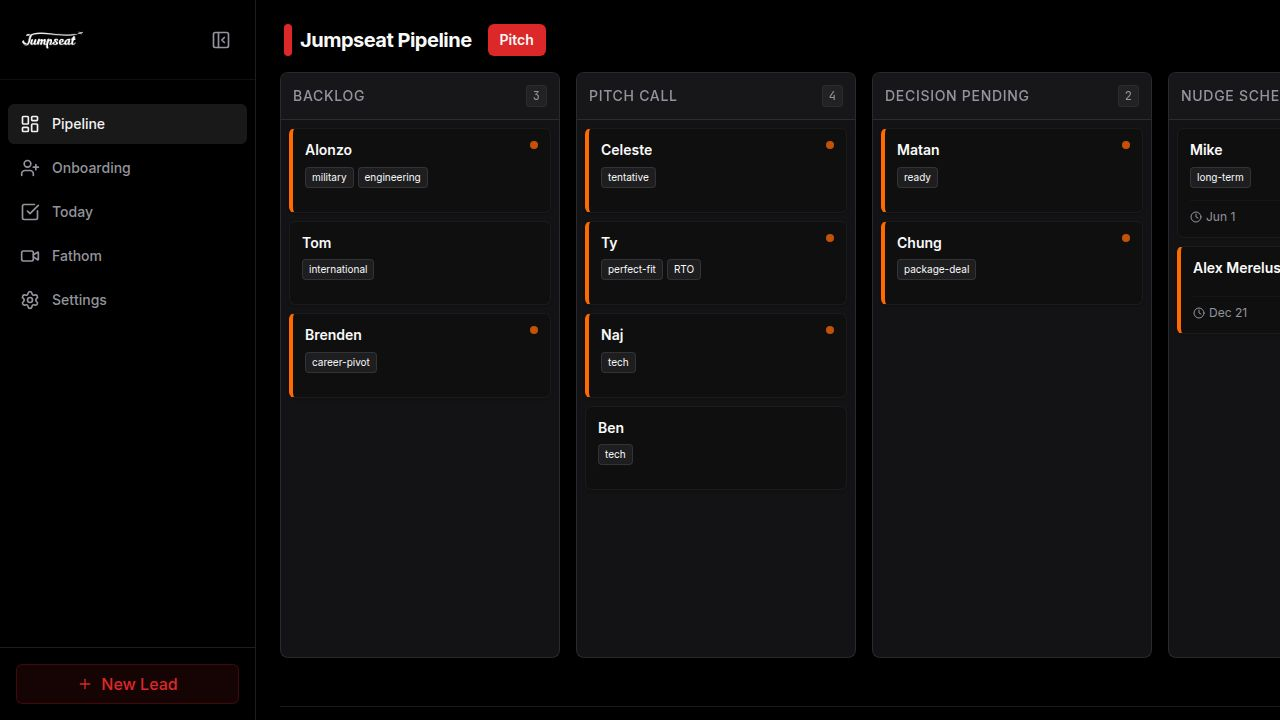
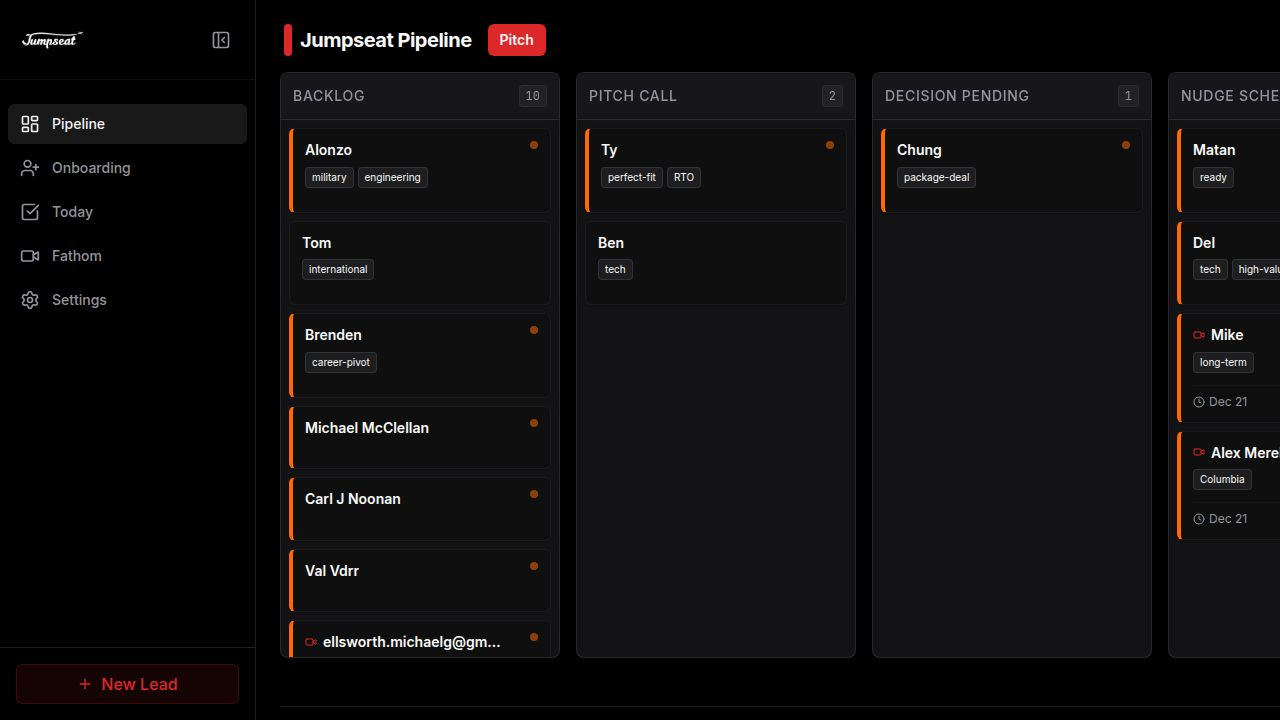
Add ability to edit lead names and improve follow-up date saving
Implement editable lead name functionality in the UI and add optimistic updates to the `updateLead` mutation to ensure immediate persistence of changes in the lead details view.

Replit-Commit-Author: Agent
Replit-Commit-Session-Id: 7dbfe593-8719-46f8-921e-f2176dc3040a
Replit-Commit-Checkpoint-Type: full_checkpoint
Replit-Commit-Event-Id: 415c6837-a538-4c58-ba3a-317cc3413951
Replit-Commit-Screenshot-Url: https://storage.googleapis.com/screenshot-production-us-central1/5ed89963-c615-4f70-851d-41f2a588be62/7dbfe593-8719-46f8-921e-f2176dc3040a/AU6iI3i
Replit-Helium-Checkpoint-Created: true

diff --git a/client/src/components/lead-details.tsx b/client/src/components/lead-details.tsx
@@ -33,12 +33,15 @@ export function LeadDetails({ leadId, onClose }: LeadDetailsProps) {
   const [newTag, setNewTag] = useState("");
   const [isAddingTag, setIsAddingTag] = useState(false);
   const [followUpDate, setFollowUpDate] = useState("");
+  const [editableName, setEditableName] = useState("");
+  const [isEditingName, setIsEditingName] = useState(false);
 
   useEffect(() => {
     if (lead) {
       setNotes(lead.summary || "");
       setLinkedInUrl(lead.linkedIn || "");
       setFollowUpDate(lead.nextFollowUp ? new Date(lead.nextFollowUp).toISOString().split('T')[0] : "");
+      setEditableName(lead.name || "");
     }
   }, [lead]);
 
@@ -57,6 +60,13 @@ export function LeadDetails({ leadId, onClose }: LeadDetailsProps) {
   };
 
   if (!lead) return null;
+
+  const handleSaveName = () => {
+    if (editableName.trim() && editableName !== lead.name) {
+      updateLead(lead.id, { name: editableName.trim() });
+    }
+    setIsEditingName(false);
+  };
 
   const handleSaveNotes = () => {
     updateLead(lead.id, { summary: notes });
@@ -82,8 +92,27 @@ export function LeadDetails({ leadId, onClose }: LeadDetailsProps) {
       <SheetContent className="w-full sm:max-w-xl overflow-y-auto bg-card border-l border-border p-0 gap-0">
         <div className="p-6 pb-4 border-b border-border bg-muted/20">
             <div className="flex items-start justify-between mb-4">
-                <div>
-                    <h2 className="text-2xl font-bold tracking-tight text-foreground">{lead.name}</h2>
+                <div className="flex-1 min-w-0">
+                    {isEditingName ? (
+                      <input
+                        type="text"
+                        value={editableName}
+                        onChange={(e) => setEditableName(e.target.value)}
+                        onBlur={handleSaveName}
+                        onKeyDown={(e) => e.key === 'Enter' && handleSaveName()}
+                        className="text-2xl font-bold tracking-tight text-foreground bg-transparent border-b-2 border-primary focus:outline-none w-full"
+                        autoFocus
+                        data-testid="input-lead-name"
+                      />
+                    ) : (
+                      <h2 
+                        className="text-2xl font-bold tracking-tight text-foreground cursor-pointer hover:text-primary transition-colors"
+                        onClick={() => setIsEditingName(true)}
+                        title="Click to edit name"
+                      >
+                        {lead.name}
+                      </h2>
+                    )}
                     {lead.email && (
                       <a href={`mailto:${lead.email}`} className="text-muted-foreground hover:text-primary text-sm">
                         {lead.email}

diff --git a/client/src/lib/data.tsx b/client/src/lib/data.tsx
@@ -122,7 +122,7 @@ export function StoreProvider({ children }: { children: ReactNode }) {
     },
   });
 
-  // Update lead mutation
+  // Update lead mutation with optimistic updates
   const updateLeadMutation = useMutation({
     mutationFn: async ({ id, updates }: { id: string; updates: Partial<Lead> }) => {
       const res = await fetch(`/api/leads/${id}`, {
@@ -133,7 +133,23 @@ export function StoreProvider({ children }: { children: ReactNode }) {
       if (!res.ok) throw new Error("Failed to update lead");
       return res.json();
     },
-    onSuccess: () => {
+    onMutate: async ({ id, updates }) => {
+      await queryClient.cancelQueries({ queryKey: ["leads"] });
+      const previousLeads = queryClient.getQueryData<Lead[]>(["leads"]);
+      
+      queryClient.setQueryData<Lead[]>(["leads"], (old) => {
+        if (!old) return old;
+        return old.map((lead) => lead.id === id ? { ...lead, ...updates } : lead);
+      });
+      
+      return { previousLeads };
+    },
+    onError: (_err, _variables, context) => {
+      if (context?.previousLeads) {
+        queryClient.setQueryData(["leads"], context.previousLeads);
+      }
+    },
+    onSettled: () => {
       queryClient.invalidateQueries({ queryKey: ["leads"] });
     },
   });
